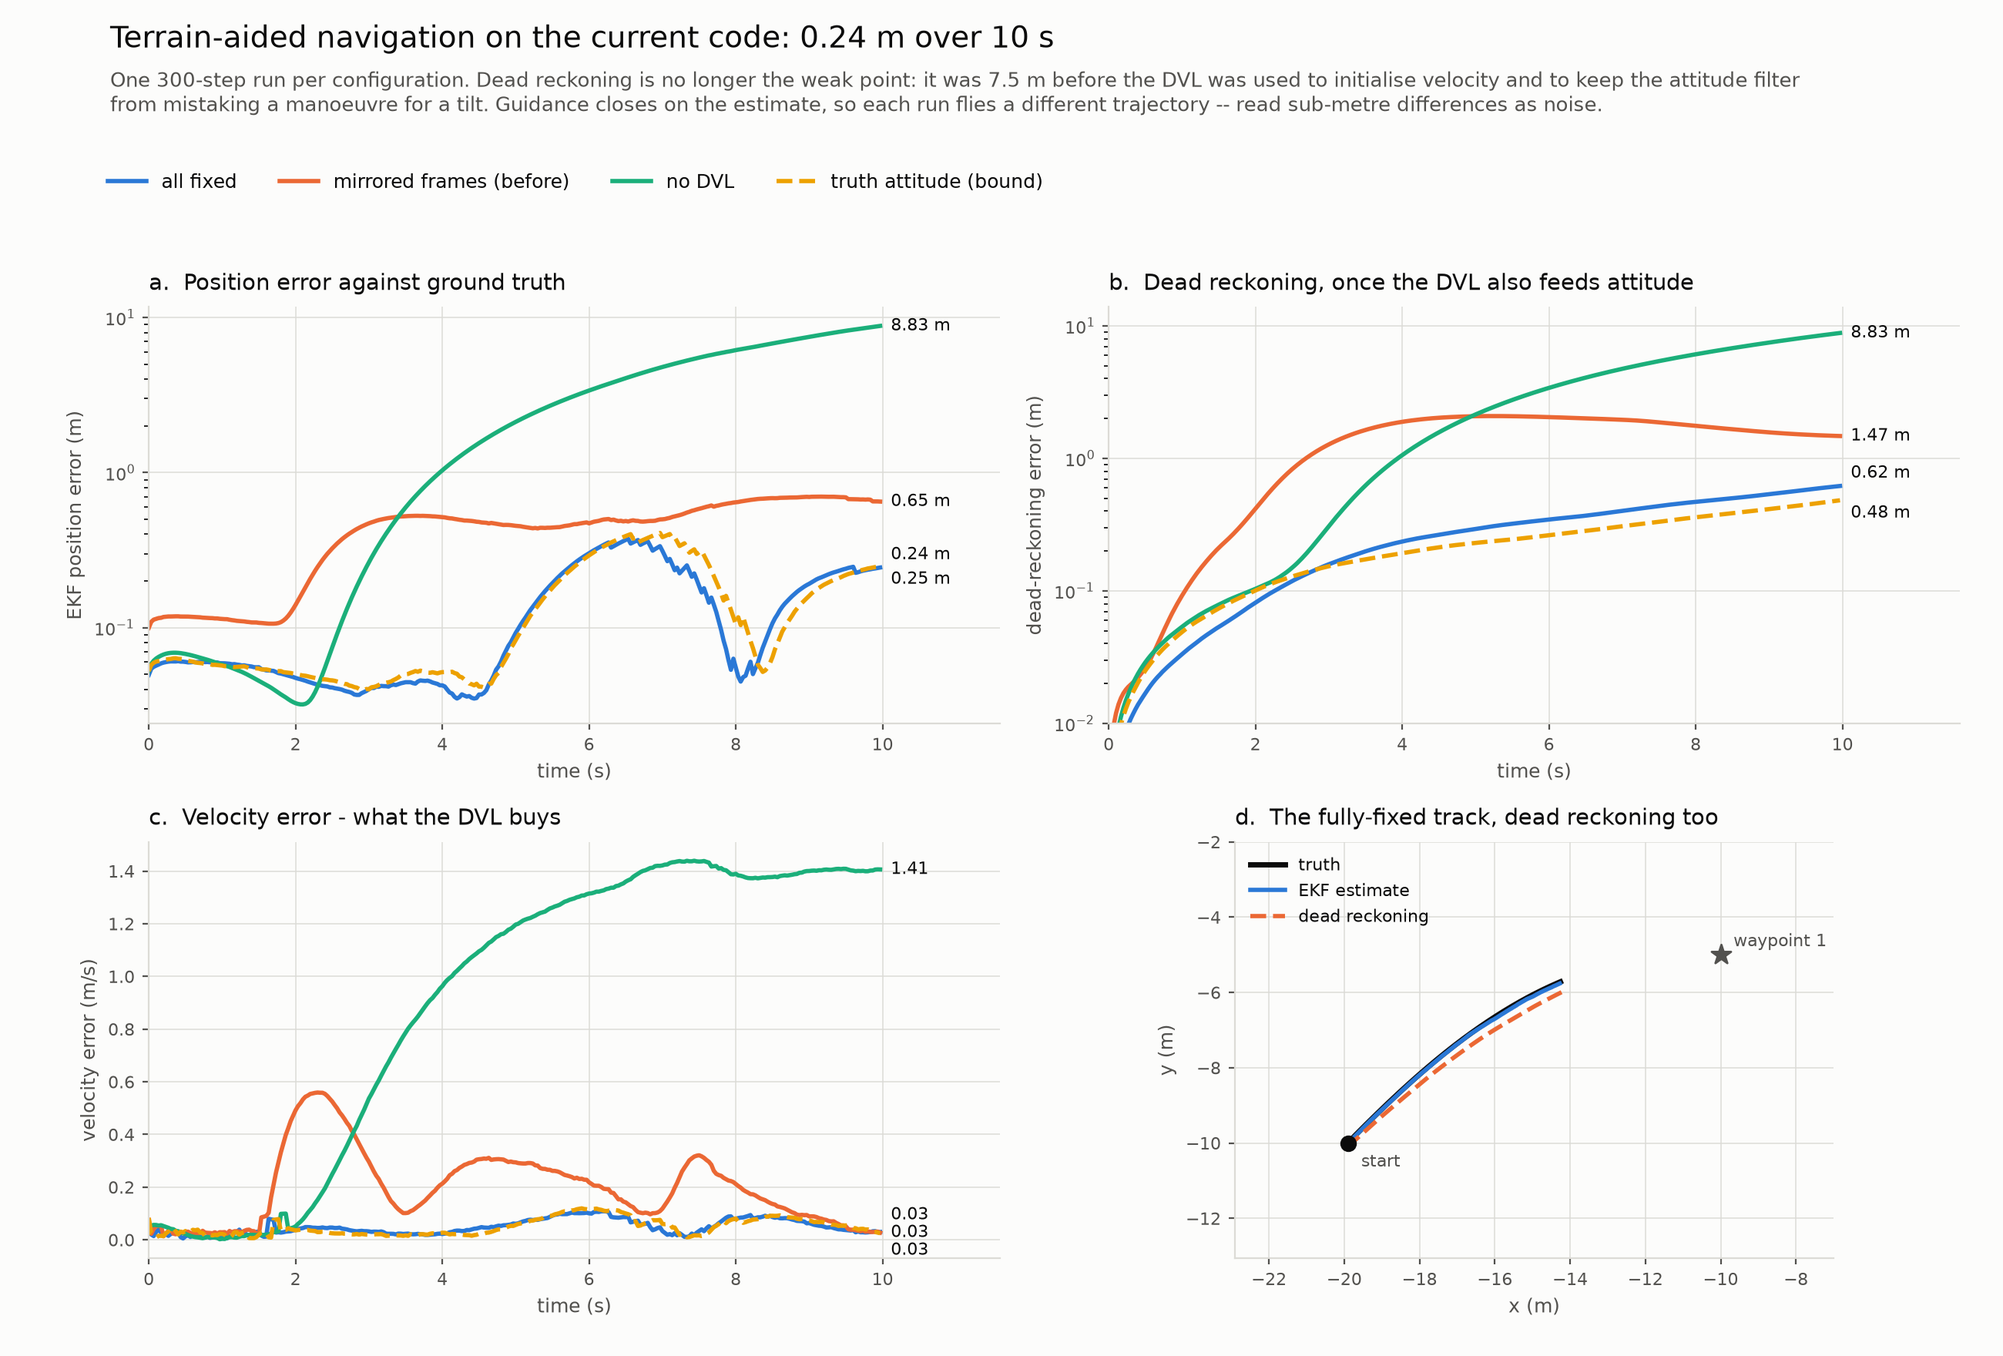
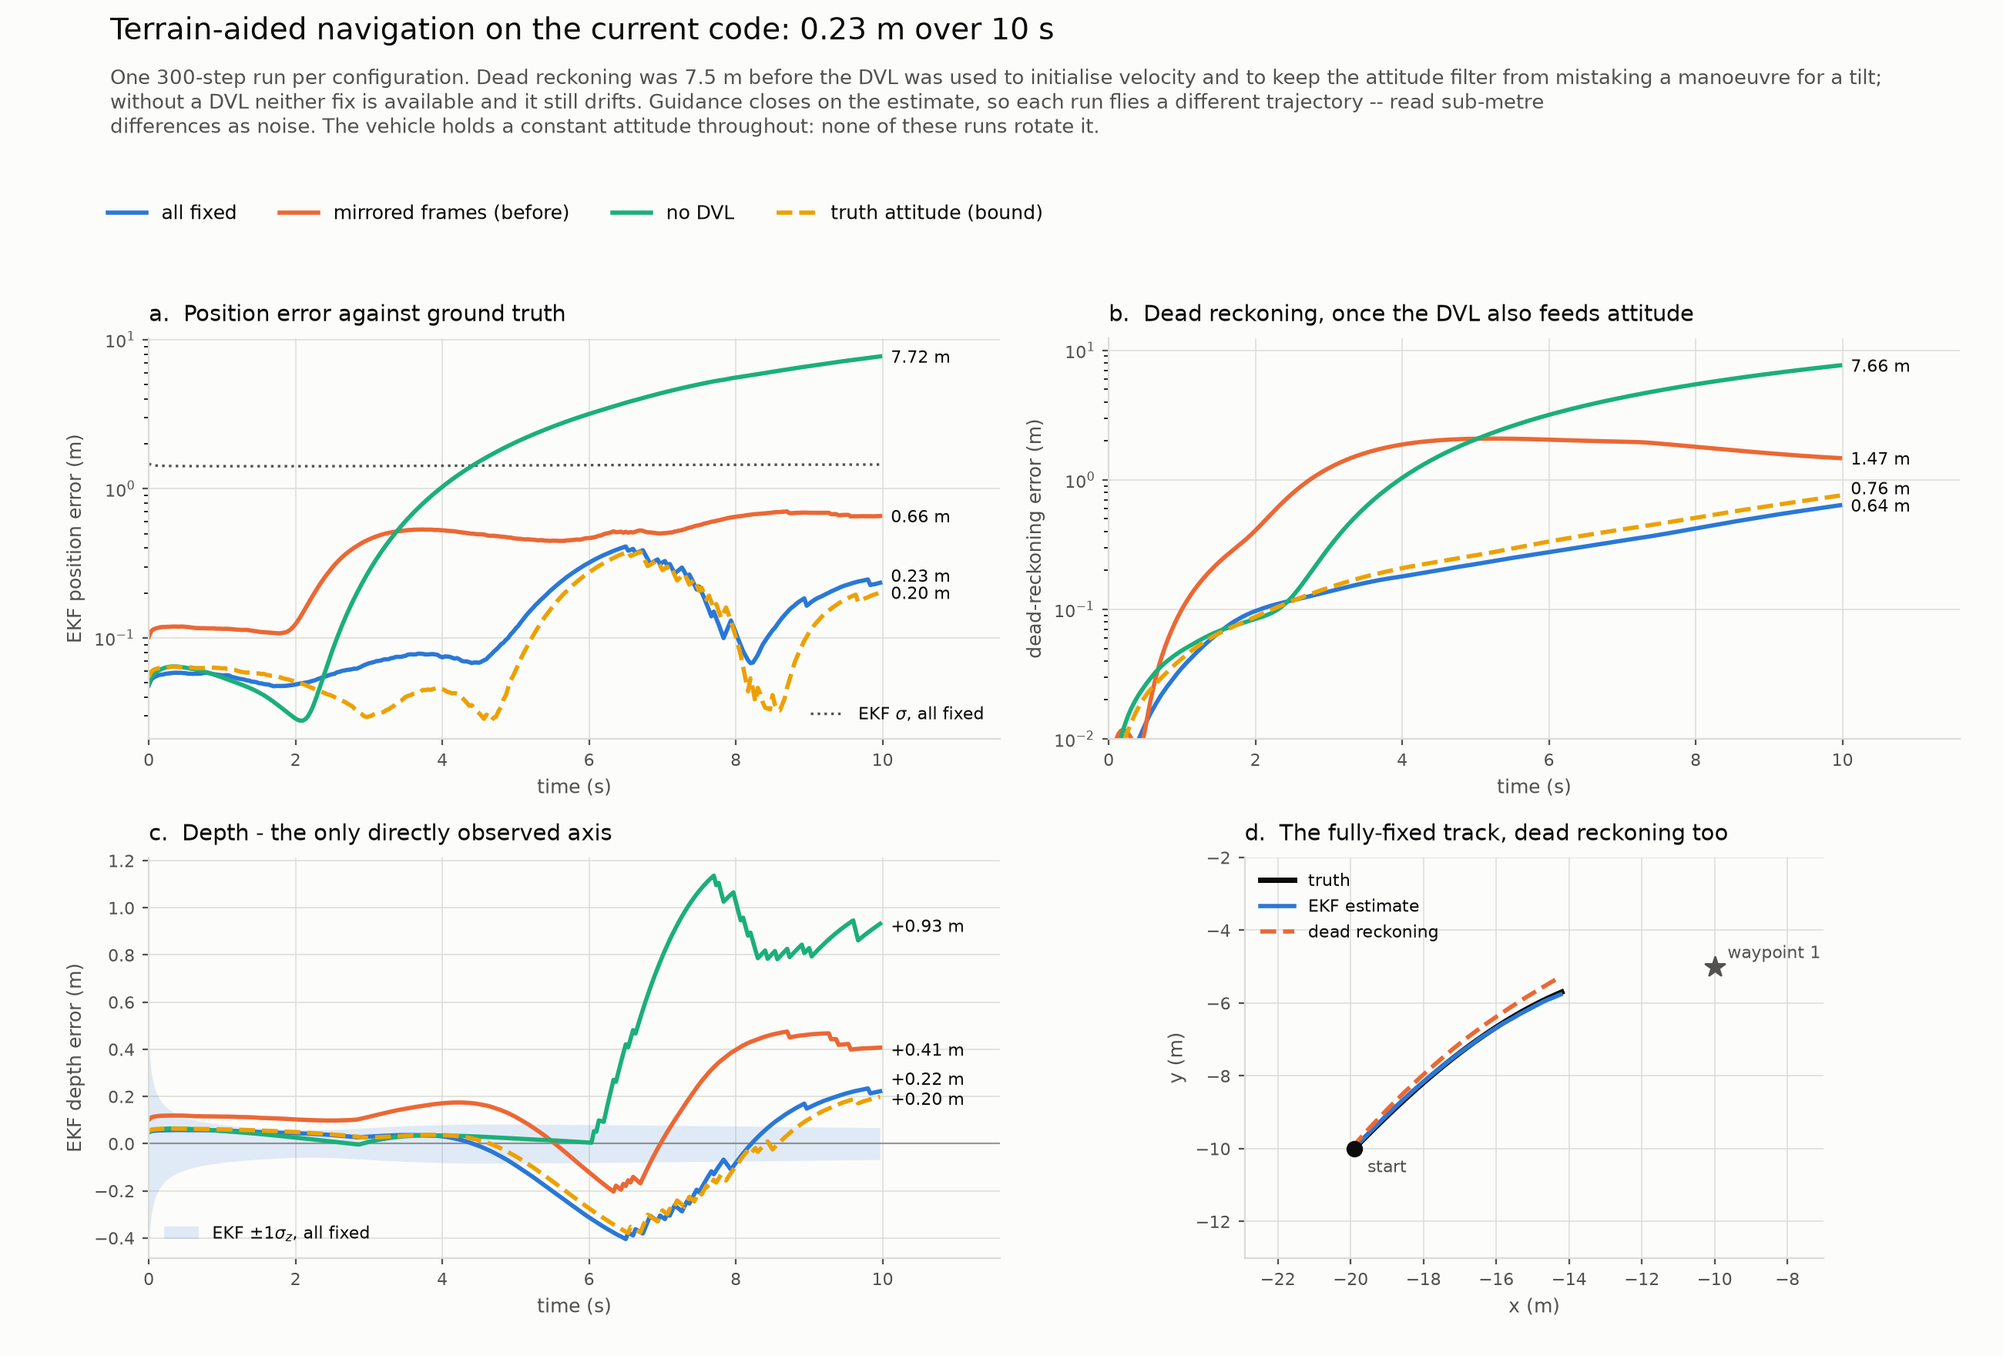
Show uncertainty in the figure, and correct its slope numbers
- Panel (c) becomes signed depth error with a +/-1 sigma_z band,
  replacing velocity error; z is the only directly observed axis
- Panel (a) gains a sigma envelope. The filter is pessimistic
  horizontally, 0.16 of its own sigma, and honest about --no-dvl,
  growing sigma to 14.4 m as velocity stops being observable
- Record that it is overconfident in z by 3 to 10 sigma in every
  configuration: both depth rows are conditioned at 30 Hz as though
  each tick were independent, so sigma_z falls like sigma/sqrt(n) when
  the map error at a place is the same error every visit
- Separate end labels in display space; configurations now differ by
  centimetres and hand-tuned offsets needed retuning every regeneration
- Correct the acceleration slopes: differentiating truth with
  np.gradient twice injects 0.037 m/s^2 into a 0.114 m/s^2 signal and
  attenuates the regression by 0.90, which is why the truth-attitude
  "bound" read 0.98 when it must be 1.00. The DVL fix is 0.62 -> 0.97,
  not the 0.66 -> 0.94 reported before
- Record that the vehicle never rotates in any run: OrientationSensor
  returns one bit-identical quaternion, the gyro is pure noise, and the
  frame check navigate.py's COLUMNS describes cannot run at all
- Record two non-fixes for --no-dvl: a lower gain, and gating the
  accelerometer on how much the specific force is changing. The gate
  measures well here and is wrong -- specific force changes under
  rotation too, and no run in this repo rotates
[…]

diff --git a/scripts/plot_runs.py b/scripts/plot_runs.py
@@ -55,6 +55,7 @@ def load(path: Path) -> dict:
   ekf = frame[["ekf_x", "ekf_y", "ekf_z"]].to_numpy()
   dead_reckoned = frame[["dr_x", "dr_y", "dr_z"]].to_numpy()
   true_velocity = np.gradient(truth, DT, axis=0)
+  sigma = frame[["ekf_sx", "ekf_sy", "ekf_sz"]].to_numpy()
 
   return {
     "t": frame["step"].to_numpy() / HZ,
@@ -67,6 +68,11 @@ def load(path: Path) -> dict:
       true_velocity - frame[["ekf_vx", "ekf_vy", "ekf_vz"]].to_numpy(), axis=1
     ),
     "att": frame["att_err_deg"].to_numpy(),
+    # Signed, because the point of showing it against a sigma band is whether
+    # the error sits inside the uncertainty the filter claims.
+    "z_err": ekf[:, 2] - truth[:, 2],
+    "sigma_z": sigma[:, 2],
+    "sigma_pos": np.linalg.norm(sigma, axis=1),
   }
 
 
@@ -96,6 +102,31 @@ def label_end(ax, x, y, text: str, dy: float = 0) -> None:
   )
 
 
+def label_ends(ax, entries, min_gap: float = 11.0) -> None:
+  """Label each curve's final value, nudged apart where they would collide.
+
+  Configurations that used to differ by metres now differ by centimetres, so
+  hand-tuned offsets need re-tuning on every regeneration. Spread them in
+  display space instead, which needs the axis limits and scale to be set first.
+  """
+  if not entries:
+    return
+
+  placed = sorted(
+    (ax.transData.transform((x, y))[1], x, y, text) for x, y, text in entries
+  )
+  offsets = [0.0] * len(placed)
+  for i in range(1, len(placed)):
+    gap = (placed[i][0] + offsets[i]) - (placed[i - 1][0] + offsets[i - 1])
+    if gap < min_gap:
+      offsets[i] += min_gap - gap
+
+  # Centre the stack so a crowded panel does not drift its labels upward.
+  shift = sum(offsets) / len(offsets)
+  for offset, (_, x, y, text) in zip(offsets, placed, strict=True):
+    label_end(ax, x, y, text, offset - shift)
+
+
 def main() -> None:
   args = parse_args()
   data = {name: load(args.logs / f"{key}.csv") for name, key, _, _ in RUNS}
@@ -108,40 +139,45 @@ def main() -> None:
     fontsize=14,
     x=0.055,
     ha="left",
-    y=0.982,
+    y=0.988,
   )
   fig.text(
     0.055,
-    0.918,
-    "One 300-step run per configuration. Dead reckoning is no longer the weak "
-    "point: it was 7.5 m before the DVL was used to initialise velocity and to "
-    "keep the attitude filter\nfrom mistaking a manoeuvre for a tilt. Guidance "
-    "closes on the estimate, so each run flies a different trajectory -- read "
-    "sub-metre differences as noise.",
+    0.902,
+    "One 300-step run per configuration. Dead reckoning was 7.5 m before the "
+    "DVL was used to initialise velocity and to keep the attitude filter from "
+    "mistaking a manoeuvre for a tilt;\nwithout a DVL neither fix is available "
+    "and it still drifts. Guidance closes on the estimate, so each run flies a "
+    "different trajectory -- read sub-metre\ndifferences as noise. The vehicle "
+    "holds a constant attitude throughout: none of these runs rotate it.",
     color=INK_2,
     fontsize=9.5,
     ha="left",
   )
 
-  # The fixed run and its truth-attitude bound now land within centimetres of
-  # each other, so their end labels have to be pulled apart by hand.
-  apart = {"all fixed": 6, "truth attitude (bound)": -6}
-
   ax = axes[0][0]
+  # The filter's own account of how wrong it thinks it is. Error curves sitting
+  # well below it mean the filter is pessimistic; above it, overconfident --
+  # and nothing in this figure used to say which.
+  ax.plot(
+    data["all fixed"]["t"],
+    data["all fixed"]["sigma_pos"],
+    color=INK_2,
+    linewidth=1.2,
+    linestyle=":",
+    label="EKF $\\sigma$, all fixed",
+  )
+  ends = []
   for name, _, colour, linestyle in RUNS:
     run = data[name]
     ax.plot(
       run["t"], run["pos"], color=colour, linewidth=2, linestyle=linestyle
     )
-    label_end(
-      ax,
-      run["t"][-1],
-      run["pos"][-1],
-      f"{run['pos'][-1]:.2f} m",
-      apart.get(name, 0),
-    )
+    ends.append((run["t"][-1], run["pos"][-1], f"{run['pos'][-1]:.2f} m"))
   ax.set_yscale("log")
   ax.set_xlim(0, 11.6)
+  ax.legend(frameon=False, fontsize=8, labelcolor=INK, loc="lower right")
+  label_ends(ax, ends)
   style(
     ax,
     "time (s)",
@@ -150,18 +186,13 @@ def main() -> None:
   )
 
   ax = axes[0][1]
+  ends = []
   for name, _, colour, linestyle in RUNS:
     run = data[name]
     ax.plot(
       run["t"], run["dr_err"], color=colour, linewidth=2, linestyle=linestyle
     )
-    label_end(
-      ax,
-      run["t"][-1],
-      run["dr_err"][-1],
-      f"{run['dr_err'][-1]:.2f} m",
-      apart.get(name, 0),
-    )
+    ends.append((run["t"][-1], run["dr_err"][-1], f"{run['dr_err'][-1]:.2f} m"))
   ax.set_yscale("log")
   ax.set_xlim(0, 11.6)
   # Every run starts at exactly zero error, which on a log axis pulls the floor
@@ -173,27 +204,35 @@ def main() -> None:
     "dead-reckoning error (m)",
     "b.  Dead reckoning, once the DVL also feeds attitude",
   )
+  label_ends(ax, ends)
 
   ax = axes[1][0]
-  nudge = {"all fixed": 8, "truth attitude (bound)": -8}
+  fixed = data["all fixed"]
+  ax.fill_between(
+    fixed["t"],
+    -fixed["sigma_z"],
+    fixed["sigma_z"],
+    color="#2a78d6",
+    alpha=0.13,
+    linewidth=0,
+    label="EKF $\\pm1\\sigma_z$, all fixed",
+  )
+  ax.axhline(0, color=INK_2, linewidth=0.8, alpha=0.5)
+  ends = []
   for name, _, colour, linestyle in RUNS:
     run = data[name]
     ax.plot(
-      run["t"], run["vel"], color=colour, linewidth=2, linestyle=linestyle
+      run["t"], run["z_err"], color=colour, linewidth=2, linestyle=linestyle
     )
-    label_end(
-      ax,
-      run["t"][-1],
-      run["vel"][-1],
-      f"{run['vel'][-1]:.2f}",
-      nudge.get(name, 0),
-    )
+    ends.append((run["t"][-1], run["z_err"][-1], f"{run['z_err'][-1]:+.2f} m"))
   ax.set_xlim(0, 11.6)
+  ax.legend(frameon=False, fontsize=8, labelcolor=INK, loc="lower left")
+  label_ends(ax, ends)
   style(
     ax,
     "time (s)",
-    "velocity error (m/s)",
-    "c.  Velocity error - what the DVL buys",
+    "EKF depth error (m)",
+    "c.  Depth - the only directly observed axis",
   )
 
   ax = axes[1][1]
@@ -267,11 +306,11 @@ def main() -> None:
     labelcolor=INK,
     ncol=4,
     loc="upper left",
-    bbox_to_anchor=(0.045, 0.885),
+    bbox_to_anchor=(0.045, 0.862),
     columnspacing=2.2,
   )
 
-  fig.tight_layout(rect=(0.02, 0.01, 0.99, 0.855))
+  fig.tight_layout(rect=(0.02, 0.01, 0.99, 0.832))
   args.out.parent.mkdir(parents=True, exist_ok=True)
   fig.savefig(args.out, dpi=200, facecolor=SURFACE)
   print(f"Wrote {args.out}")

diff --git a/visuals/README.md b/visuals/README.md
@@ -46,10 +46,10 @@ dead-reckoning column is what changed and why.
 
 | run | EKF | dead reckoning | velocity error | mean attitude error |
 |---|---|---|---|---|
-| all fixed | 0.51 → **0.24 m** | 7.49 → **0.62 m** | 0.05 → 0.03 m/s | 0.94 → 0.23° |
-| mirrored frames (before) | 0.68 → 0.65 m | 9.01 → 1.47 m | 0.03 → 0.03 m/s | 1.03 → 1.50° |
-| no DVL | 8.88 → 8.83 m | 9.68 → 8.83 m | 0.95 → 1.41 m/s | 0.75 → 0.92° |
-| truth attitude (bound) | 0.27 → 0.25 m | 3.68 → **0.48 m** | 0.01 → 0.03 m/s | 0.05 → 0.08° |
+| all fixed | 0.51 → **0.23 m** | 7.49 → **0.64 m** | 0.05 → 0.02 m/s | 0.94 → 0.35° |
+| mirrored frames (before) | 0.68 → 0.66 m | 9.01 → 1.47 m | 0.03 → 0.03 m/s | 1.03 → 1.44° |
+| no DVL | 8.88 → 7.72 m | 9.68 → 7.66 m | 0.95 → 1.09 m/s | 0.75 → 0.95° |
+| truth attitude (bound) | 0.27 → 0.20 m | 3.68 → 0.76 m | 0.01 → 0.02 m/s | 0.05 → 0.08° |
 
 **Dead reckoning was 7.5 m because of two defects, neither of them accelerometer
 noise.** The figure it replaces said the drift was residual tilt plus doubly
@@ -75,20 +75,28 @@ Averaged over the run that tilt is 0.95°, and the logged mean attitude error wa
 0.94° -- the complementary filter was tracking the manoeuvre almost exactly. The
 strapdown then rotated the same reading by that tilted attitude and added `g`
 back, which cancels most of the acceleration out again. Regressing the recovered
-horizontal acceleration on the twice-differentiated truth gives the size of it:
+horizontal acceleration on the differentiated truth gives the size of it:
 
 | | slope, before | after |
 |---|---|---|
-| all fixed | 0.66, 0.64 | 0.94, 0.93 |
-| truth attitude (bound) | 1.02, 0.99 | 0.96, 0.98 |
-| no DVL | 0.66, 0.68 | 0.59, 0.53 |
+| all fixed | 0.62, 0.61 | **0.97, 0.95** |
+| truth attitude (bound) | 0.95, 0.93 | 1.00, 1.01 |
+| no DVL | 0.62, 0.63 | 0.60, 0.53 |
 
-A third of the acceleration was being rotated away, and the error was
+Nearly 40% of the acceleration was being rotated away, and the error was
 antiparallel to the true acceleration (median projection −0.86). **That is why
 the dead-reckoned track came out short rather than randomly displaced** -- it is
 negative feedback between two components, not noise. Fixed by differentiating the
 DVL for the vehicle's own acceleration and subtracting it before the reading is
 used as a gravity reference.
+
+**Differentiate the truth with a Savitzky-Golay filter, not `np.gradient`
+twice.** An earlier version of this table used the plain double difference and
+read 0.66 → 0.94 with a bound of 0.98. Double differencing injects 0.037 m/s^2
+of noise into a 0.114 m/s^2 signal, and noise in a regressor attenuates the
+slope by `1/(1 + sigma^2/s^2)` = 0.90 -- which is why the "bound" came out below
+one when a perfect attitude must give exactly one. The corrected numbers above
+are the same runs, remeasured; the fix is slightly larger than first reported.
 
 **`gravity_trust` was supposed to prevent exactly this and structurally cannot.**
 A horizontal component adds to `g` in quadrature, so at `a_h = 0.5 m/s²` the
@@ -99,11 +107,59 @@ for it used 20 m/s², which is the case it can see.
 
 **The `--no-dvl` row is unfixed in the horizontal and that is not an oversight.**
 There is nothing else on this vehicle that measures its own acceleration, so the
-compensation has no input. Its slope is still 0.59 and its 8.8 m is what the
+compensation has no input. Its slope is still 0.60 and its 7.7 m is what the
 figure now shows as the weak point. Worth knowing: with the correctly specified
 gyro, `--gyro-only` -- no accelerometer correction at all -- held 0.27° over 10 s
 against the filter's 0.94°, so on this timescale the uncompensated correction was
 a net harm.
+
+**Two things that look like fixes for it, and are not.**
+
+*Lowering `--attitude-kp`.* Measured over two 50 s runs, dead-reckoning rms is
+flat at 8.1-9.1 m for every gain from 0.5 to 16 -- a 32x range -- because the
+steady-state tilt is set by what the accelerometer reads, not by how fast the
+loop reaches it. Below 0.5 the gyro drifts instead, reaching 24.6 m at `kp = 0`.
+
+*Gating the accelerometer when the vehicle manoeuvres.* Since the manoeuvre
+cannot be subtracted without a DVL, the obvious alternative is to detect it and
+decline to correct. A gate on how far the specific force has moved from its own
+recent average does discriminate -- it rejects 85% of manoeuvring samples while
+keeping 90% of quiescent ones, against 3% for the existing magnitude test -- and
+on these runs it takes `--no-dvl` from 8.8 m to 4.9 m. **It was still wrong, and
+the reason it looked right is the next section.** Specific force changes when the
+vehicle *rotates* as much as when it accelerates, and the gate cannot tell them
+apart: driven with a perfect accelerometer, zero linear acceleration and a
+vehicle simply pitching, its trust falls to 0.49 at 5 °/s and 0.02 at 30 °/s.
+It shuts precisely when a rotating vehicle most needs the correction.
+
+**The vehicle never rotates in any of these runs, and that limits what the
+attitude numbers mean.** The `OrientationSensor` returns one bit-identical
+quaternion for all 1498 samples of a 50 s run -- `diag(1, -1, -1)`, the
+`IMUSocket` rest orientation. It is not stale: rotating the accelerometer by
+that constant reproduces the differentiated truth acceleration at slope 0.97 to
+1.01 in every third of the run, which a wrong or frozen orientation could not
+do. The vehicle is a `HoveringAUV` with vectored thrusters and `WaypointFollower`
+commands pure translation, so it strafes -- its world-frame velocity heading
+swings from 39° to 178° while its body attitude never changes.
+
+Consequences worth keeping in mind before trusting any attitude result here:
+
+- **The gyro carries no signal at all.** It reads 0.0158 rad/s rms against a
+  true body rate of exactly zero, which matches its configured
+  `ang_vel_sigma = 0.01` across three axes. Every gyro sample in this repository
+  is noise.
+- **The gyro frame check these logs were designed for cannot run.** The `COLUMNS`
+  comment in `navigate.py` says the gyro and truth quaternion together recover
+  the true body rate, "which is what identifies a frame error in the gyro -- the
+  DVL's axes turned out to be flipped, and nothing rules the gyro's out". With
+  no rotation there is nothing to compare against, so a gyro sign flip or axis
+  permutation would be invisible in every run made so far.
+- **Anything tuned on these runs is fitted to a vehicle that holds attitude.**
+  That is what makes the gate above untrustworthy rather than merely imperfect:
+  its failure mode is specific to rotation, so no run here could have caught it.
+
+Making the course turn the vehicle -- yawing to face each waypoint rather than
+strafing to it -- is the prerequisite for any further attitude work.
 
 **The `mirrored frames` row gets worse in attitude, 1.03 → 1.50°, and that is
 consistent.** Under `--legacy-frames` the DVL is sign-flipped along with
@@ -120,10 +176,43 @@ configurations fly the same open-loop commands. The `no DVL` velocity error move
 from 0.95 to 1.41 m/s between figures, which is a different trajectory's value
 for an unobservable quantity and means nothing.
 
-Panels: **(a)** EKF position error, log scale; **(b)** dead reckoning, log scale,
-now within a factor of 1.3 of the truth-attitude bound; **(c)** velocity error,
-which is what the DVL observes directly; **(d)** the fully-fixed track, where
-dead reckoning now follows the truth instead of stopping 2 m along a 7 m course.
+Panels: **(a)** EKF position error, log scale, with the filter's own `σ` dotted
+over it; **(b)** dead reckoning, log scale, now level with the
+truth-attitude bound; **(c)** signed depth error against a ±1σ_z band -- `z` is
+the only directly observed axis, since the sonar-plus-map and the depth sensor
+both measure it; **(d)** the fully-fixed track, where dead reckoning now follows
+the truth instead of stopping 2 m along a 7 m course.
+
+**The uncertainty is a consistency check, and the filter fails it in `z`.** An
+error curve far below the filter's own σ means it is pessimistic; above it means
+the covariance is not telling the truth about the estimate. Neither was visible
+in any previous version of this figure, because only the means were logged.
+
+| run | position error / σ | depth error / σ_z |
+|---|---|---|
+| all fixed | 0.16 | **+3.3** |
+| mirrored frames (before) | 0.45 | +6.0 |
+| no DVL | 0.54 | **+9.5** |
+| truth attitude (bound) | 0.14 | +2.9 |
+
+Horizontally it is *pessimistic* -- σ reaches 1.45 m against a 0.23 m error --
+and it is honest about the unaided case, growing σ to 14.4 m when the DVL is
+removed, which is the covariance correctly reporting that velocity has become
+unobservable.
+
+Vertically it is **overconfident in every configuration**, by 3 to 10 sigma. σ_z
+collapses to 0.068 m within the first second and stays there while the actual
+depth error wanders to 0.22 m and beyond. The cause is visible in the
+measurement model: both depth rows are applied at 30 Hz as though each tick
+brought an independent observation, so the posterior variance falls like
+`sigma^2 / n`. It does not -- the map's error at a given place is the same error
+every time the vehicle is there, and the depth sensor's bias is constant, so a
+few hundred samples carry barely more information than one. Nothing in the
+filter models that correlation, and until something does, `sigma_z` is a
+statement about sample count rather than about depth.
+
+Velocity error was panel (c) previously; it is what justified the DVL, and that
+argument is now made. The numbers stay in the table above.
 
 Regenerate with:
 
